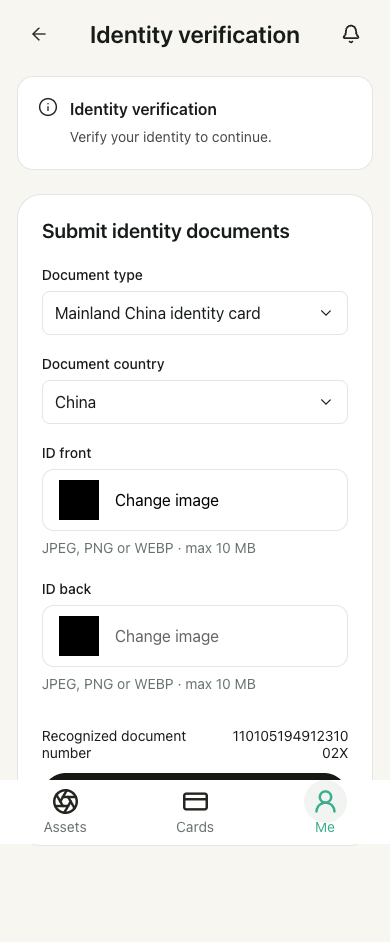
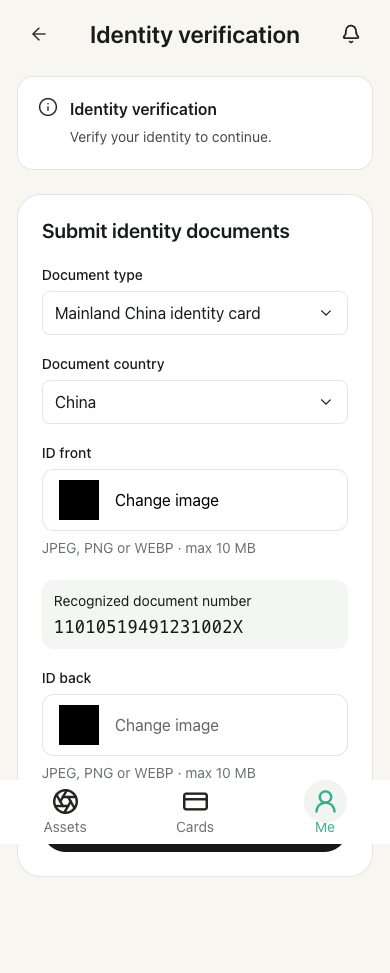
更新

diff --git a/mobile/uni-app/src/screens/Kyc.vue b/mobile/uni-app/src/screens/Kyc.vue
@@ -282,7 +282,7 @@ async function submit() {
                     :disabled="action.pending.value"
                     searchable
                 /><view class="document-grid"
-                    ><UploadField
+                    ><view><UploadField
                         v-model="form.front"
                         :label="
                             t(
@@ -292,18 +292,20 @@ async function submit() {
                             )
                         "
                         :max-mb="page.maxDocumentMb"
-                        :disabled="action.pending.value" /><UploadField
+                        :disabled="action.pending.value" />
+                        <text v-if="recognizing" class="muted" role="status">{{ t('Recognizing document number…') }}</text>
+                        <FormErrors v-if="Object.keys(recognitionErrors).length" :errors="recognitionErrors" />
+                        <view v-if="recognized" class="recognized-number" aria-live="polite">
+                            <text>{{ t('Recognized document number') }}</text>
+                            <text>{{ recognized.identityNumber }}</text>
+                        </view>
+                    </view><UploadField
                         v-if="form.document_type === 'NATIONAL_ID'"
                         v-model="form.back"
                         :label="t('ID back')"
                         :max-mb="page.maxDocumentMb"
                         :disabled="action.pending.value" /></view
-                ><text v-if="recognizing" class="muted" role="status">{{ t('Recognizing document number…') }}</text>
-                <FormErrors v-if="Object.keys(recognitionErrors).length" :errors="recognitionErrors" />
-                <view v-if="recognized" class="verified-row" aria-live="polite">
-                    <text>{{ t('Recognized document number') }}</text>
-                    <text>{{ recognized.identityNumber }}</text>
-                </view>
+                >
                 <button
                     class="primary submit-button"
                     form-type="submit"
@@ -329,6 +331,22 @@ async function submit() {
     >
 </template>
 <style scoped>
+.recognized-number {
+    display: flex;
+    flex-direction: column;
+    gap: 8px;
+    margin: 0 0 20px;
+    padding: 12px;
+    background: #f3f6f3;
+    border-radius: 12px;
+    font-size: 14px;
+}
+.recognized-number > text:last-child {
+    font-size: 17px;
+    font-family: monospace;
+    letter-spacing: 0.3px;
+    white-space: nowrap;
+}
 .verified-row {
     display: flex;
     justify-content: space-between;

diff --git a/tests/Feature/KycSubmissionTest.php b/tests/Feature/KycSubmissionTest.php
@@ -56,7 +56,9 @@ it('recognizes a mainland national id before saving private documents without di
         ->and($application->front_object_key)->toStartWith("kyc/{$this->tenant->id}/{$this->user->id}/{$application->id}/front/")
         ->and($application->front_object_key)->not->toContain('user@', '1234', 'personal-front')
         ->and($application->back_object_key)->not->toContain('user@', '5678', 'personal-back');
-    Storage::disk('private')->assertExists([$application->front_object_key, $application->back_object_key]);
+    $replicas = StoredImage::where('business_reference', $application->id)->pluck('backup_key')->all();
+    expect($replicas)->toHaveCount(2);
+    Storage::disk('private')->assertExists($replicas);
     Storage::disk('public')->assertMissing([$application->front_object_key, $application->back_object_key]);
     expect($application->ocr_status->value)->toBe('SUCCEEDED');
     Queue::assertNotPushed(ProcessKycOcrJob::class);
@@ -122,13 +124,15 @@ it('keeps one pending application and cleans files uploaded by a failed duplicat
 
     expect(KycApplication::query()->count())->toBe(1)
         ->and(Storage::disk('private')->allFiles())->toHaveCount(2)
-        ->and(Storage::disk('private')->allFiles())->toContain($first->front_object_key, $first->back_object_key);
+        ->and(Storage::disk('private')->allFiles())->toEqualCanonicalizing(StoredImage::where('business_reference', $first->id)->pluck('backup_key')->all());
 });
 
 it('cleans a successful front upload when the back upload fails', function (): void {
     fakeMatchingKycOcr('PARTIAL-1');
     $disk = Mockery::mock(FilesystemAdapter::class);
     $disk->shouldReceive('put')->twice()->andReturn(true, false);
+    $disk->shouldReceive('move')->once()->andReturn(true);
+    $disk->shouldReceive('exists')->andReturn(false);
     $disk->shouldReceive('delete')->twice()->andReturn(true);
     Storage::shouldReceive('disk')->atLeast()->once()->with('private')->andReturn($disk);
 
@@ -141,6 +145,8 @@ it('preserves the primary failure and queues safe cleanup records when deletion 
     fakeMatchingKycOcr('CLEANUP-SECRET');
     $disk = Mockery::mock(FilesystemAdapter::class);
     $disk->shouldReceive('put')->twice()->andReturn(true, false);
+    $disk->shouldReceive('move')->once()->andReturn(true);
+    $disk->shouldReceive('exists')->andReturn(false);
     $disk->shouldReceive('delete')->twice()->andThrow(new RuntimeException('unsafe provider path detail'));
     Storage::shouldReceive('disk')->atLeast()->once()->with('private')->andReturn($disk);
     Log::spy();
@@ -148,7 +154,7 @@ it('preserves the primary failure and queues safe cleanup records when deletion 
     expect(fn () => app(SubmitKycApplicationAction::class)->execute($this->tenant, $this->user, 'CN', 'CLEANUP-SECRET', kycTestImage('front.jpg'), kycTestImage('back.jpg')))
         ->toThrow(DomainException::class, 'Image storage is unavailable.');
     $records = StoredImage::where('state', 'cleanup_pending')->get();
-    expect($records)->toHaveCount(2);
+    expect($records)->toHaveCount(1);
     foreach ($records as $record) {
         expect($record->last_error)->toBe('DELETE_FAILED');
     }

diff --git a/tests/Feature/DirectImageUploadsTest.php b/tests/Feature/DirectImageUploadsTest.php
@@ -257,13 +257,13 @@ it('rejects arbitrary URLs field swaps missing URLs expired and foreign tickets 
     $this->postJson($this->base.'/client/kyc/applications', $data + ['front_url' => $front['imageUrl']])->assertStatus(410);
 });
 
-it('keeps both national ID URLs and fails closed on OCR mismatch without synchronous OSS cleanup', function () {
+it('keeps both national ID originals but sends only the front to OCR and fails closed without synchronous OSS cleanup', function () {
     kycUrlFlow($this);
     $front = directFixture($this, 'kyc', 'front');
     $back = directFixture($this, 'kyc', 'back');
     $provider = Mockery::mock(KycOcrProviderInterface::class);
     $provider->shouldReceive('extractIdentityDocument')->once()
-        ->with(Mockery::on(fn ($request) => $request->frontUrl === $front['imageUrl'] && $request->backUrl === $back['imageUrl']))
+        ->with(Mockery::on(fn ($request) => $request->frontUrl === $front['imageUrl'] && $request->backUrl === ''))
         ->andReturn(new KycOcrResultDTO(KycOcrOutcome::Failed));
     app()->instance(KycOcrProviderInterface::class, $provider);
     $this->postJson($this->base.'/client/kyc/applications', [

diff --git a/tests/Feature/KycSecurityAuditTest.php b/tests/Feature/KycSecurityAuditTest.php
@@ -110,7 +110,8 @@ it('never resolves the mock OCR provider in production', function (): void {
 });
 
 it('prevents submitted identity data and reviewed decisions from being rewritten', function (): void {
-    $application = app(SubmitKycApplicationAction::class)->execute($this->tenant, $this->user, 'MY', 'IMMUTABLE-123', kycTestImage('front.jpg'), kycTestImage('back.jpg'));
+    fakeMatchingKycOcr('IMMUTABLE-123');
+    $application = app(SubmitKycApplicationAction::class)->execute($this->tenant, $this->user, 'CN', 'IMMUTABLE-123', kycTestImage('front.jpg'), kycTestImage('back.jpg'));
     expect(fn () => $application->forceFill(['document_country' => 'SG'])->save())->toThrow(LogicException::class);
 
     $application->refresh()->forceFill([
